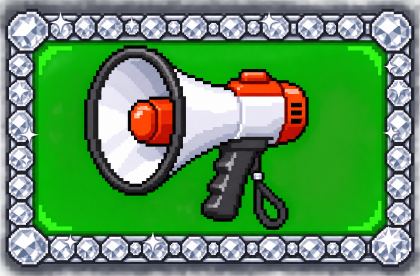
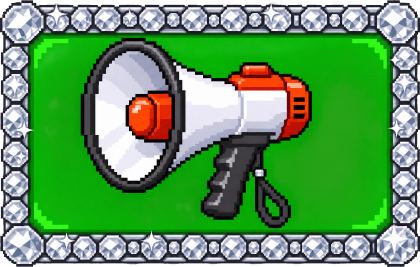
Swap in the clean green bullhorn tile
Claude-Session: https://claude.ai/code/session_01S5m3RuHx6ya1A92TPsi1rh

diff --git a/public/app.js b/public/app.js
@@ -191,7 +191,7 @@ const BLDG=[[80,80,280,220,"#c96b52"],[440,80,240,220,"#b9895a"],[760,80,280,220
 const NPC_AT=[[720,350],[400,650],[720,650],[1080,500],[400,40],[40,650]], NPC_COL=["#ff1e9c","#2456d6","#237a45"], MINIS=["catch","cups","horns"];
 const G={on:false,last:null}, IMG={};
 const ASSET_BASE=window.TOKYO_ASSET_BASE||"/img/";
-function gAssets(){gImg("detective",ASSET_BASE+"detective.png");for(let i=1;i<=5;i++)gImg("hater"+i,ASSET_BASE+"hater-"+i+".png");for(let i=0;i<10;i++)gImg("logo"+i,ASSET_BASE+"logo-"+i+".png");for(let i=1;i<=5;i++)gImg("stranger"+i,ASSET_BASE+"stranger-"+i+".png");for(let i=0;i<4;i++){gImg("wbag"+i,ASSET_BASE+"wnb-bag-"+i+".png");gImg("whome"+i,ASSET_BASE+"wnb-home-"+i+".png");gImg("bullhorn"+i,ASSET_BASE+"bullhorn-"+i+".png")}}
+function gAssets(){gImg("detective",ASSET_BASE+"detective.png");for(let i=1;i<=5;i++)gImg("hater"+i,ASSET_BASE+"hater-"+i+".png");for(let i=0;i<10;i++)gImg("logo"+i,ASSET_BASE+"logo-"+i+".png");for(let i=1;i<=5;i++)gImg("stranger"+i,ASSET_BASE+"stranger-"+i+".png");for(let i=0;i<4;i++){gImg("wbag"+i,ASSET_BASE+"wnb-bag-"+i+".png");gImg("whome"+i,ASSET_BASE+"wnb-home-"+i+".png");gImg("bullhorn"+i,ASSET_BASE+"bullhorn-"+i+".png?v=2")}}
 const pick=a=>a[Math.floor(Math.random()*a.length)], shuffle=a=>a.map(x=>[Math.random(),x]).sort((p,q)=>p[0]-q[0]).map(x=>x[1]);
 function gImg(k,src){if(!IMG[k]){IMG[k]=new Image();IMG[k].src=src}return IMG[k]}
 function gSpots(){const s=[];BLDG.forEach((b,i)=>{const r=Math.floor(i/3);if(r<2)s.push({x:b[0]+b[2]*.5,y:b[1]+b[3],side:"s"});if(r>0&&i%2===0)s.push({x:b[0]+b[2]*.3,y:b[1],side:"n"});if(i%3<2&&i%2===1)s.push({x:b[0]+b[2],y:b[1]+b[3]*.5,side:"e"})});return s.map((o,i)=>({...o,s:i<3?"mine":"empty",logo:i%10,age:0}))}
